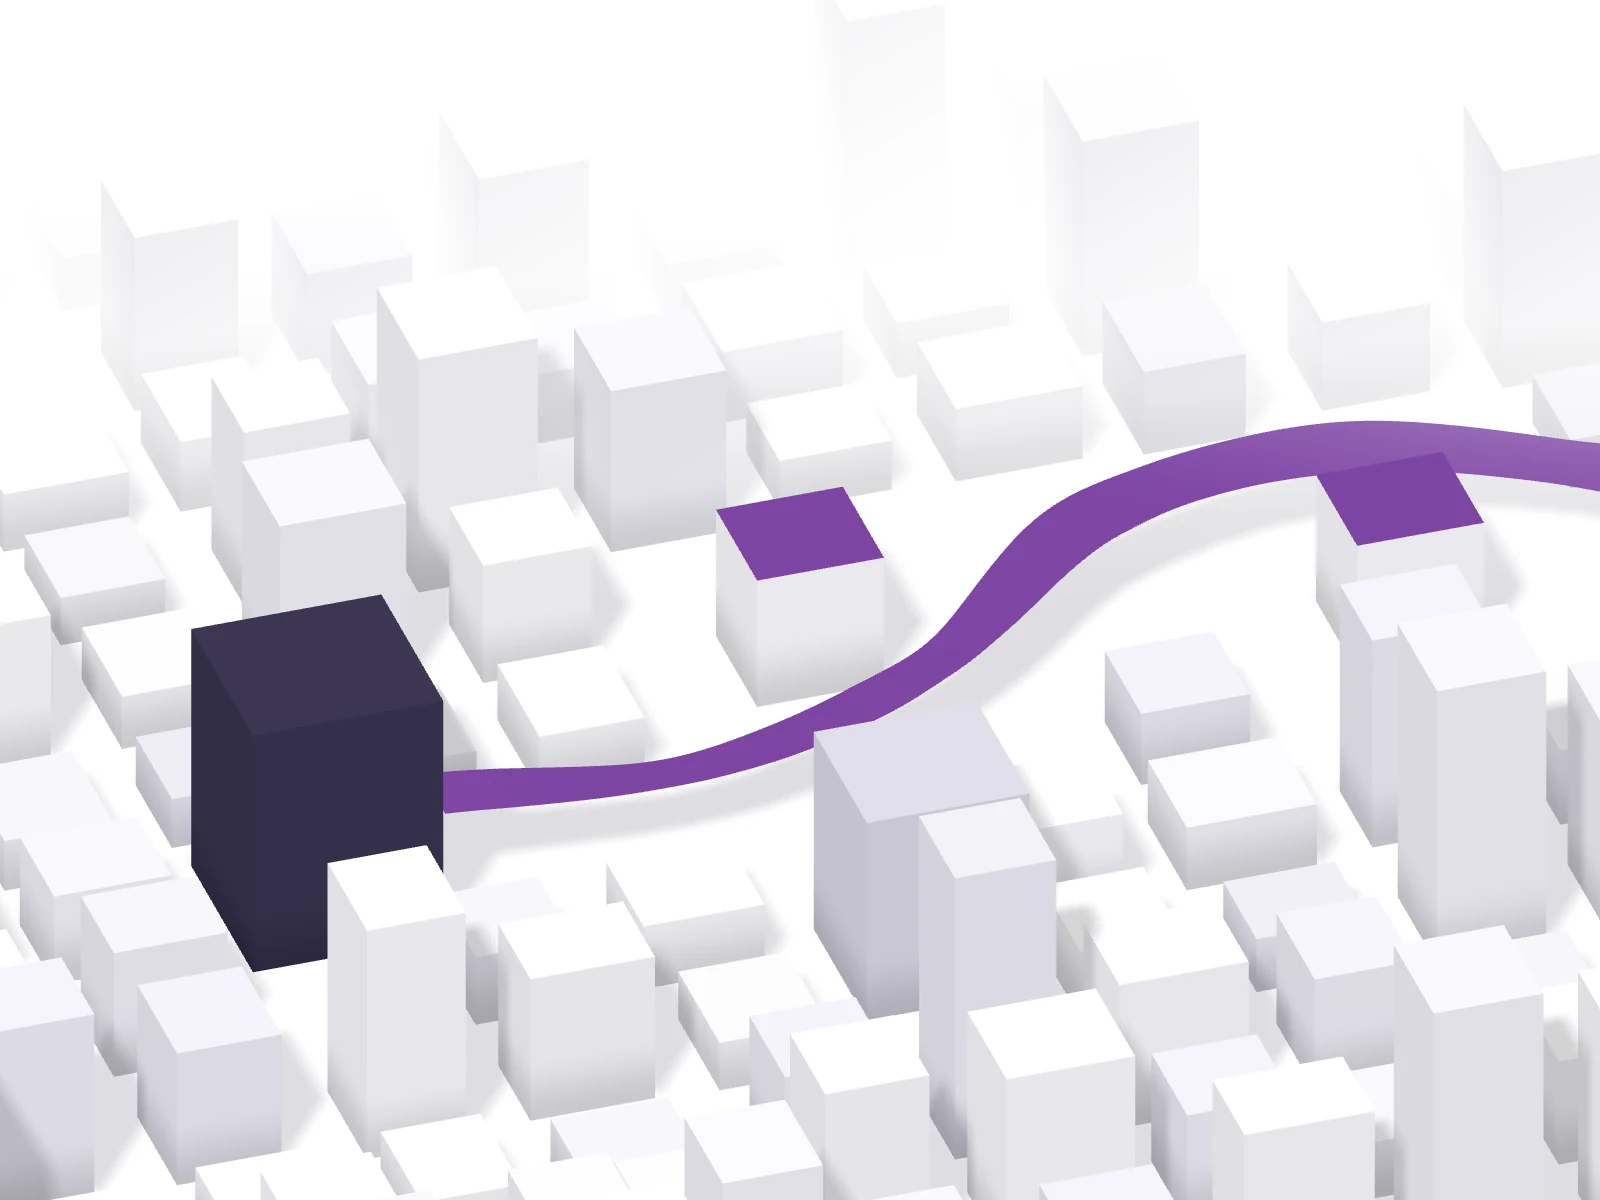
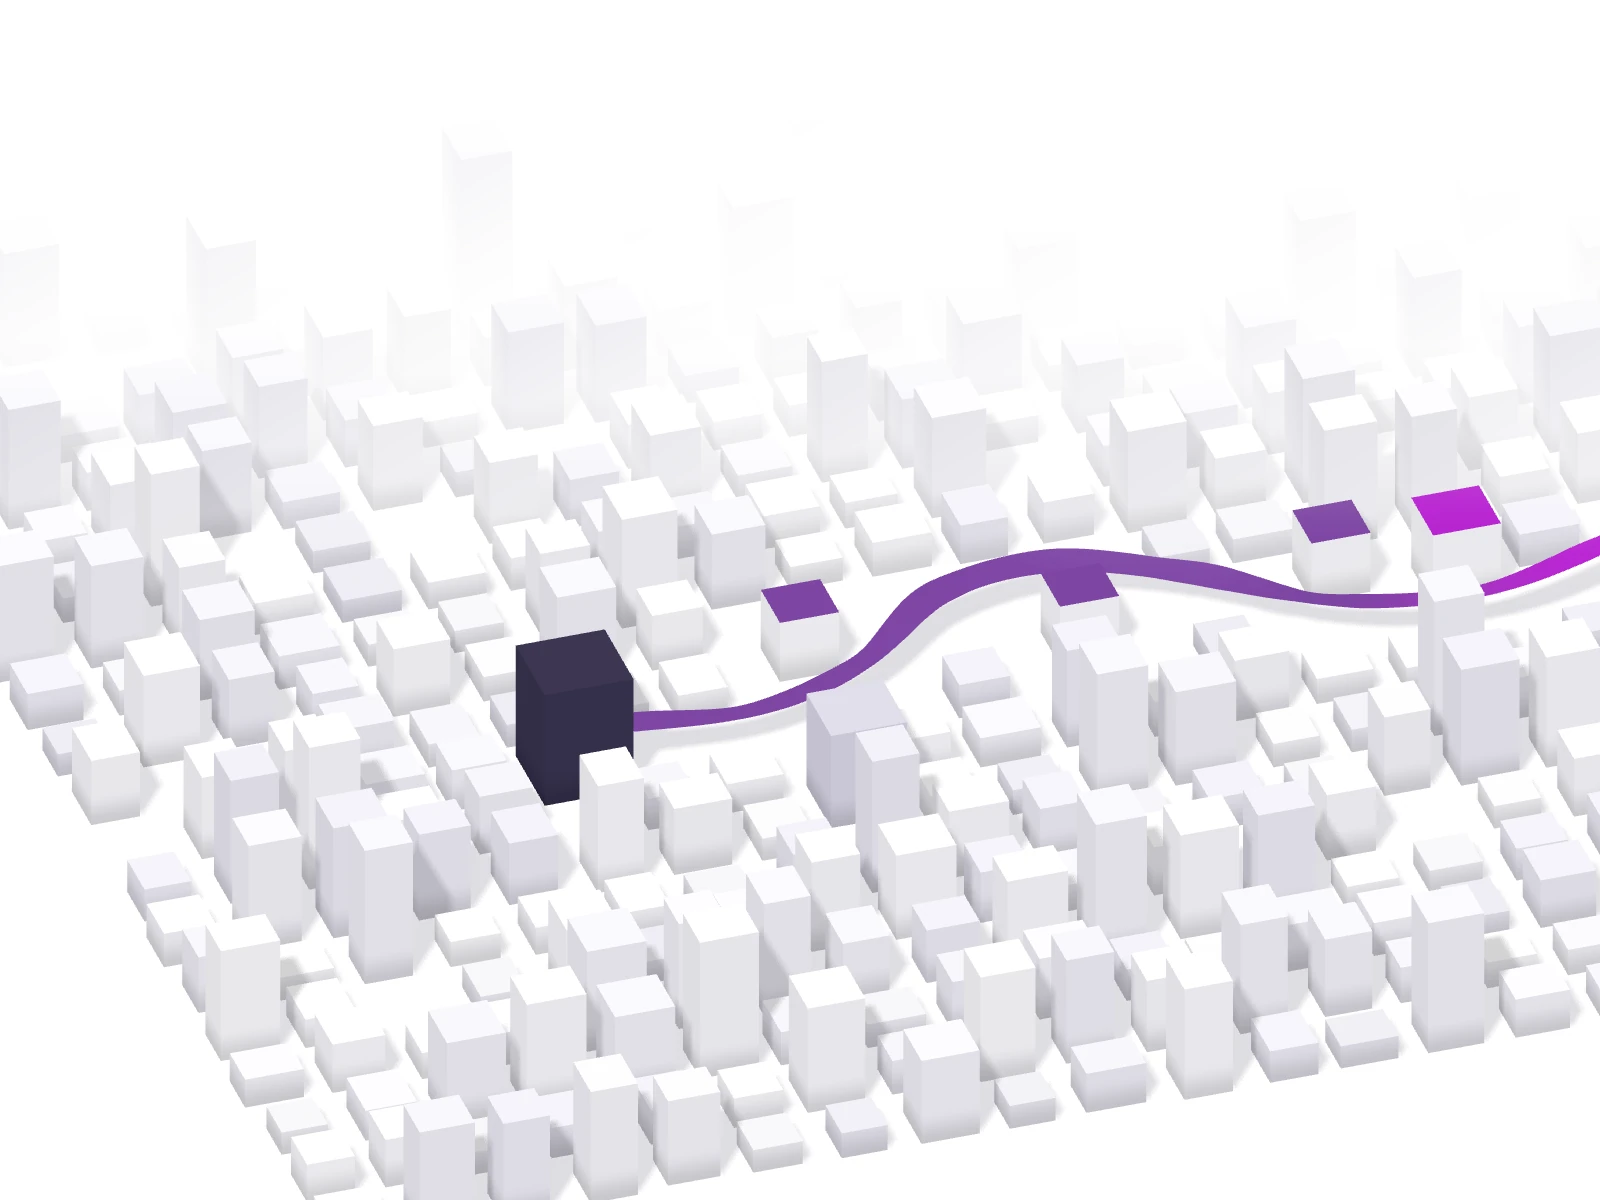
feat: 階段 5 完成：聯絡業務、首頁 AI 第 3 則、SearchAction 與版面修正（#187）
- 聯絡頁的按鈕統一叫「聯絡業務」（navigation.csv utility 列、contactAction），glossary 加 en、vi 草擬
- 首頁 AI 段第 3 則換成金融業的 AI 建檔，WebSite 加 potentialAction
- 介面片段段落的事實超過 3 則時移到下方兩欄；長的事實清單排成兩欄；金融 tagline 的斷點；首頁 AI 成果圖縮小
- 重拍 digiRunner、金融的 hero 靜態圖，標籤補上 AI 模型、核心銀行系統、第三方服務業者
- content-model.md 補 #187 的欄位與段落版型

Claude-Session: https://claude.ai/code/session_01XJm8Ghs1ozkzC4U5dNQojT

diff --git a/src/lib/seo/jsonld/home.ts b/src/lib/seo/jsonld/home.ts
@@ -11,9 +11,11 @@ interface HomeJsonLdInput {
   logoUrl: string;
   /** Page language (BCP 47), e.g. zh-TW */
   inLanguage: string;
+  /** Absolute URL of the locale's search page when it is built, for the SearchAction */
+  searchUrl?: string | undefined;
 }
 
-export function homeJsonLd({ org, site, logoUrl, inLanguage }: HomeJsonLdInput) {
+export function homeJsonLd({ org, site, logoUrl, inLanguage, searchUrl }: HomeJsonLdInput) {
   const organization = organizationNode(org, site, logoUrl);
   const website = {
     '@type': 'WebSite',
@@ -22,6 +24,17 @@ export function homeJsonLd({ org, site, logoUrl, inLanguage }: HomeJsonLdInput) 
     url: site.href,
     inLanguage,
     publisher: { '@id': organization['@id'] },
+    // The site search (M6) as a SearchAction (content-model.md「首頁」, #187): `q` is what
+    // SearchResults reads
+    ...(searchUrl
+      ? {
+          potentialAction: {
+            '@type': 'SearchAction',
+            target: { '@type': 'EntryPoint', urlTemplate: `${searchUrl}?q={search_term_string}` },
+            'query-input': 'required name=search_term_string',
+          },
+        }
+      : {}),
   };
   return graph(organization, website);
 }

diff --git a/src/data/home/zh-TW.ts b/src/data/home/zh-TW.ts
@@ -32,7 +32,9 @@ export const home: Home = {
     items: [
       { node: 'smartclaim', name: fact('smartclaim-title'), result: fact('smartclaim-result'), link: '看 AI 智慧理賠方案' },
       { node: 'smartfilling', name: fact('smartfilling-title'), result: fact('smartfilling-result'), link: '看 AI 智慧建檔方案' },
-      { node: 'success-stories', name: fact('fraud-platform-title'), result: fact('fraud-platform-result'), link: '看所有成功案例' },
+      // The third AI result names AI and its result in its own text (briefs/home.md「取捨」第 9 項, #187);
+      // the fraud platform's text names no AI, so it moved to the finance page's cases
+      { node: 'industry-finance', name: fact('smartfilling-case-bank-title'), result: fact('smartfilling-case-bank'), link: '金融業的 AI 應用' },
     ],
   },
   products: {

diff --git a/src/lib/ia/navigation.ts b/src/lib/ia/navigation.ts
@@ -103,6 +103,15 @@ export function navTree(area: string, locale: Locale = DEFAULT_LOCALE, href: Nav
 }
 
 export const utility = navTree('utility');
+
+// The name of every button to the contact page (header, hero, page end): the utility row's label,
+// which says the next step (聯絡業務, briefs/home.md「取捨」第 10 項, #187). Footer links, breadcrumbs
+// and the page's own h1 keep the node's name (聯絡我們)
+export const contactAction = (locale: Locale): string => {
+  const row = navRows.find((r) => r.area === 'utility' && r.node === 'contact');
+  if (!row?.label) throw new Error('docs/ia/navigation.csv has no labelled utility row for contact');
+  return labelIn(row.label, locale);
+};
 export const header = navTree('header');
 export const footer = navTree('footer');
 export const footerBottom = navTree('footer-bottom');

diff --git a/docs/ia/content-model.md b/docs/ia/content-model.md
@@ -95,9 +95,11 @@ sourceUrl: []
 | `kind` | `'product' \| 'solution' \| 'service'` | 是 | 產品是可授權的軟體；解決方案是產品加導入的組合；服務是人力或顧問服務 | `inventory.csv` 的 `page_type`（`product`、`solution`、`service`），M5 逐頁確認 |
 | `tagline` | `string` | 否 | hero 標語 | 現站 hero 區 |
 | `heroLead` | `string` | 否 | tagline 下方的一句說明，寫類別與用途，是表述、不夾帶事實（#167） | — |
-| `heroPoints` | `string[]` | 否 | hero 說明下方的證據點，每項是事實原文（#167） | — |
+| `heroPoints` | `(string \| { text: string; note: string })[]` | 否 | hero 說明下方的證據點，每項是事實原文（#167）；`note` 是緊貼在下方的條件原文（#187） | — |
+| `heroLabels` | `Partial<Record<'core' \| 'legacy' \| 'product' \| 'model' \| 'service' \| 'ai0' \| 'ai1' \| 'ai2', string>>` | 否 | hero 靜態圖上的 HTML 標籤，鍵是 `src/lib/scene/ribbon/pictures.json` 的錨點，落在圖外的不輸出（#187） | — |
 | `secondaryCta` | `{ label: string; node: string }` | 否 | hero 的第二個動作，連到另一個節點（例如試用雲端版），#167 | — |
-| `heroImage` | `image` | 否 | hero 主圖 | 現站 hero 區 |
+| `heroImage` | `image` | 否 | hero 主圖；沒填時沿用所屬產品家族 hub 的 `heroImage`（#187） | 現站 hero 區 |
+| `sections` | 見下方「依 brief 排的段落」 | 否 | brief 要求比 highlights 多的段落（#167），照 brief 逐段排版（#187）。段落已連到的子頁不再列在子頁的索引列，`hasPart` 不受影響；有 `sections` 的產業頁不輸出依 `industry` 反查的產品列（`briefs/finance.md`「取捨」第 12 項） | — |
 | `features` | `{ title: string; body: string; icon?: image; points?: string[]; link?: { label: string; node: string } }[]` | 否 | 功能或服務項目。`points` 是列在說明下方的事實原文，`link` 是這項功能接著要看的頁面（`node` 取 `nodes.csv` 的 id），#167 | 現站功能區 |
 | `useCases` | `{ title: string; body: string; industry?: 'finance' \| 'government' \| 'manufacturing' }[]` | 否 | 應用情境。`industry` 讓產業頁（`hub`）反查相關產品 | 現站情境區 |
 | `useCasesTitle` | `string` | 否 | 應用情境區塊的標題，預設「應用情境」（#167） | — |
@@ -105,7 +107,9 @@ sourceUrl: []
 | `faq` | `{ question: string; answer: string }[]` | 否 | 常見問題 | 現站 FAQ 區（少數頁有） |
 | `cta` | `'contact' \| 'demo'` | 是 | 主要 CTA：聯絡業務或預約 demo。表單端點由 M6 依此決定 | `features.md`「表單」 |
 | `relatedCaseStudies` | `ref(case-study)[]` | 否 | 精選案例與排序。留空時由 `case-study.offerings` 反查；關聯以 `case-study.offerings` 為準，這裡只列其中的項目 | — |
-| `casesIntro` | `string` | 否 | 成功案例區塊標題下的一句：點名案例的表述，加上該案例的事實原文，事實要列進 `facts`（#183） | — |
+| `casesIntro` | `string` | 否 | 成功案例區塊標題下的一句：點名案例的表述，加上該案例的事實原文，事實要列進 `facts`（#183）；有 `caseNotes` 時不輸出 | — |
+| `caseNotes` | `{ client?: string; work?: string; result?: string; award?: string; caseStudy?: ref(case-study); fragment?: 介面片段 }[]` | 否 | 案例列（#187）：客戶、作業、成果、獎項都是事實原文，`caseStudy` 有就連到案例內頁（錨點「客戶名：案例標題」）；有填時取代反查出來的案例 | — |
+| `casesImage` | `image` | 否 | 案例列右側的直式裝飾圖（#187） | — |
 | `relatedPosts` | `ref(blog)[]` | 否 | 精選文章與排序。留空時由 `blog.relatedOfferings` 反查；關聯以 `blog.relatedOfferings` 為準，這裡只列其中的項目 | — |
 | `downloads` | `{ label: string; file: string }[]` | 否 | 下載檔（例如 `digirunner-aws-guide` 的 PDF），也是 `download` 中繼頁的資料來源。白皮書不列在這裡，由 `whitepaper.offeringNode` 反查 | 現站下載按鈕 |
 
@@ -156,11 +160,15 @@ JSON-LD：
 |---|---|---|---|---|
 | `node` | `string` | 是 | `nodes.csv` 的 `id` | `page-map.csv` |
 | `tagline` | `string` | 否 | hero 標語 | 現站 hero 區 |
-| `heroImage` | `image` | 否 | hero 主圖 | 現站 hero 區 |
+| `heroLead`、`heroPoints`、`heroLabels` | 同 offering | 否 | hero 的說明句、證據點與靜態圖標籤（#187） | — |
+| `heroCta` | `'contact'` | 否 | hero 放「聯絡業務」按鈕（#187） | — |
+| `heroImage` | `image` | 否 | hero 主圖；產品家族頁的圖也是家族底下沒有 hero 圖的產品頁的 hero（#187） | 現站 hero 區 |
 | `industry` | `'finance' \| 'government' \| 'manufacturing'` | 產業頁必填 | 產業頁用這個值反查 `offering.useCases[].industry` 與 `case-study.industry`，列出相關產品與案例 | — |
 | `highlights` | `{ title: string; body: string }[]` | 否 | 介紹區塊。金融、政府頁承接開放銀行、開放政府頁的內容 | `/products/open-banking`、`/products/open-government` |
 | `sections` | `{ heading: string; body?: string; items?: { title: string; body?: string; node?: string }[]; link?: { label: string; node: string } }[]` | 否 | brief 要求比 highlights 多的段落（#167）：標題、一句說明、事實項目（`body` 是事實原文，`node` 連到該頁）、接著要看的頁面。段落已連到的子頁不再列在子頁卡片 | — |
-| `casesIntro` | `string` | 否 | 成功案例區塊標題下的一句，是事實原文，要列進 `facts`（#167） | — |
+| `casesIntro` | `string` | 否 | 成功案例區塊標題下的一句，是事實原文，要列進 `facts`（#167）；有 `caseNotes` 時不輸出 | — |
+| `caseNotes`、`casesImage` | 同 offering | 否 | 案例列與旁邊的直式圖（#187）；有 `caseNotes` 時取代 `featuredCaseStudies` | — |
+| `testimonial` | `{ quote: string; speaker: string }` | 否 | 接在案例列後的客戶證言，兩個都是事實原文（#187） | — |
 | `featuredCaseStudies` | `ref(case-study)[]` | 否 | 指定精選案例；沒填時用 `industry` 反查 | — |
 | `featuredPosts` | `ref(blog)[]` | 否 | 指定精選文章 | — |
 
@@ -175,7 +183,23 @@ industry: manufacturing
 sourceUrl: []
 ```
 
-JSON-LD：`CollectionPage`，`name` ← `title`、`description` ← `description`、`hasPart` ← 子節點頁面（`WebPage` 的 `name` 與 `url`）、`inLanguage` ← 語系。
+JSON-LD：`CollectionPage`，`name` ← `title`、`description` ← `description`、`hasPart` ← 子節點頁面（`WebPage` 的 `name` 與 `url`，不論段落有沒有連到）、`inLanguage` ← 語系。
+
+## 依 brief 排的段落（offering、hub 共用）
+
+`sections` 每段一個版型（`layout`），版型的長相與用法見 `docs/strategy/design-principles.md`「內頁的版型」，型別是 `src/content.config.ts` 的 `pageSection`，由 `PageSections` 輸出（#187）。共用欄位：`id`（頁內導覽的錨點）、`heading`、`body`、`link`、`fill`（`subtle`／`brand` 底色）、`image`（緞帶世界的裝飾圖，放在 spec、timeline 的標題旁或沒有片段的 band）。
+
+| `layout` | 版型 | 自己的欄位 |
+|---|---|---|
+| `claim` | 主張與原文（`FactRow`） | `items`：`{ title?; body; node? }`，`body` 是事實原文 |
+| `junction` | 接點圖（`JunctionDiagram`） | `diagram`：三欄 `{ title; tone: legacy\|product\|new; nodes: { label; state?: down\|standby }[] }` 與 `caption`；`items`；`rows`（規格表的列） |
+| `ui` | 介面片段（`UiFragment`） | `fragment`：`{ title; tabs?; rows: { label; value?; state?: on\|off\|down\|next }[]; note? }`，只寫事實寫得出的名稱與狀態；`items`；`flip` 左右對調；`index` 接索引列 |
+| `spec` | 規格表、對應表（`SpecTable`） | `rows`：`{ label; values: string[]; link? }`，有 `link` 時是對應表 |
+| `timeline` | 時間列（`Timeline`），可接對應表 | `intro`；`steps`：`{ year; body }`；`rows` |
+| `results` | 成果（`CaseList`） | `items`：`{ title; sub?; result; client?; link?; fragment? }`；`record` 段末一列紀錄 |
+| `band` | 淺紫色帶 | `items`；`fragment` |
+
+各段的字串不是表述（標題、說明句、片段與圖的用詞）就是事實原文（`items`、`rows`、`steps`、`result`），事實列進內容檔的 `facts`，`scripts/strategy/facts.mjs` 檢查數字與客戶名。
 
 ## case-study（成功案例）
 
@@ -468,7 +492,7 @@ offices:
 JSON-LD：
 
 - 首頁：`Organization`（`name`、`alternateName`、`logo`、`url` ← `Astro.site`、`sameAs`、`address` ← `headquarters: true` 的據點、`contactPoint` ← 各據點電話）＋ `WebSite`（`name`、`url`、`inLanguage`）
-- 站內搜尋（M6）上線後，`WebSite` 再加 `potentialAction`（`SearchAction`）
+- `WebSite` 有 `potentialAction`（`SearchAction`，#187）：`target` 是該語系的 `/search?q={search_term_string}`，`query-input` 是 `required name=search_term_string`；該語系沒有建出 `/search` 時不輸出
 
 ## 不建 collection 的模板
 

diff --git a/.claude/progress/187.md b/.claude/progress/187.md
@@ -1,0 +1,33 @@
+# #187 [需求] 試點三頁依 #168 評審修正並重評
+
+- Branch：`claude/sweet-turing-rjn8mm`（PR #191，draft）
+- 最後更新：2026-11-03
+
+## 階段
+
+| # | 階段 | 完成條件 |
+|---|---|---|
+| 1 | 共用元件去裝飾、design-system 展示頁與 skill 更新 | `npm run check:design`、`astro check`、build 都通過；`/design-system` 上看不到 eyebrow、編號、框線、陰影 |
+| 2 | 版型元件與 schema、兩個模板改寫 | 型別與 build 通過；`/templates/offering`、`/templates/hub` 能預覽每一種版型 |
+| 3 | digiRunner、金融兩頁照 brief 填段落與影像；首頁細節 | 兩頁相鄰段落不同版型；介面片段 ≥ 4 張；375／1280 截圖沒有溢出（`overflow.mjs`） |
+| 4 | 階段一自評與出貨 | 三頁各開一個新的 `reviewer` 只評設計 rubric，確認 D2 ≥ 3（自檢，不寫進報告）；`/issue-ship` 開 draft PR，附三頁改前／改後的截圖、受影響頁面清單；加 `update-visual-baseline` 由 CI 更新 baseline；停下等 `design-approved` |
+| 5 | （階段二）文案、聯絡按鈕名稱、SEO、無障礙 | `npm run check` 通過，含 `facts.mjs`、`links.mjs`、`glossary.mjs` |
+| 6 | （階段二）重評與報告 | 三頁三份 rubric 都達門檻；`evaluation.md` 更新；`/issue-ship` 跑審查迴圈後轉 ready |
+
+## 目前狀態
+
+階段一已出貨（PR #191），使用者看過 preview 後提供 9 張 ChatGPT 生成的緞帶世界素材，已接進頁面（bb96c92），2026-11-03 加上 `design-approved`。
+
+階段 5 已做：
+- 全站聯絡按鈕改叫「聯絡業務」：`navigation.csv` utility 列的 label，`contactAction(locale)`（`src/lib/ia/navigation.ts`）給 header、hero、`ContactCta`、offering 的 `cta: contact` 用；glossary `nav:聯絡業務`（en Contact sales、vi Liên hệ kinh doanh，draft）
+- 首頁 AI 段第 3 則換成 `smartfilling-case-bank`，連金融頁「金融業的 AI 應用」
+- 首頁 `WebSite` 加 `potentialAction`；`content-model.md` 補 #187 的欄位與「依 brief 排的段落」
+- 評審指出的版面：ui 段超過 3 則事實時移到片段下方兩欄；`SpecTable` 5 行以上的事實排成導言＋兩欄清單；金融 tagline 改斷點；首頁 AI 成果圖縮到 9–12 欄
+- hero 靜態圖重拍：`ribbon-capture.mjs` 的 `page-digirunner` halfW 9、`page-finance` 改 p 0、halfW 12；digiRunner 標籤 核心系統／既有系統／digiRunner／AI 模型，金融 核心銀行系統／理賠／建檔／第三方服務業者（TSP）；其他圖逐位元不變
+- blog 的 `relatedOfferings`、臺北市政府案例的 `offerings` 在 main 上早已有，不必改
+
+下一步（階段 6）：`eval-shots.mjs --only new` 產素材（不要留下 `docs/strategy/evaluation/new/` 的改動，第二輪的截圖另存），三頁各開一個新的 `reviewer` 評三份 rubric，存成 `docs/strategy/evaluation/reviews/r2-new-<頁>.md`，`eval-scores.mjs` 加第二輪的表，`evaluation.md` 加「第二輪（#187）」；沒過門檻就修、最多 2 輪。之後 `/issue-ship`（不另開 PR）。
+
+## 待使用者決定
+
+- 無

diff --git a/docs/ia/navigation.md b/docs/ia/navigation.md
@@ -355,7 +355,7 @@ sitemap 中所有頁面與外部連結（不含功能頁群組）都要出現在
 | 　　合作夥伴（`partners`） | header：公司 > 合作夥伴<br/>footer：公司 > 合作夥伴 |
 | 　　媒體中心（`media-center`） | header：公司 > 媒體中心<br/>footer：公司 > 媒體中心 |
 | 　　人才招募（`hr`） | header：公司 > 人才招募<br/>footer：公司 > 人才招募 |
-| 　聯絡我們（`contact`） | 工具列：聯絡我們<br/>footer：公司 > 聯絡我們 |
+| 　聯絡我們（`contact`） | 工具列：聯絡業務<br/>footer：公司 > 聯絡我們 |
 | 　　隱私權政策（`privacy`） | footer 最底列：隱私權政策 |
 | 　　使用條款（`terms`） | footer 最底列：使用條款 |
 | 　　免責聲明（`disclaimer`） | footer 最底列：免責聲明 |

diff --git a/src/content/offering/zh-TW/digirunner.md b/src/content/offering/zh-TW/digirunner.md
@@ -25,6 +25,7 @@ heroLabels:
   core: 核心系統
   legacy: 既有系統
   product: digiRunner
+  model: AI 模型
 secondaryCta:
   label: 試用 digiRunner on Cloud
   node: digirunner-cloud
